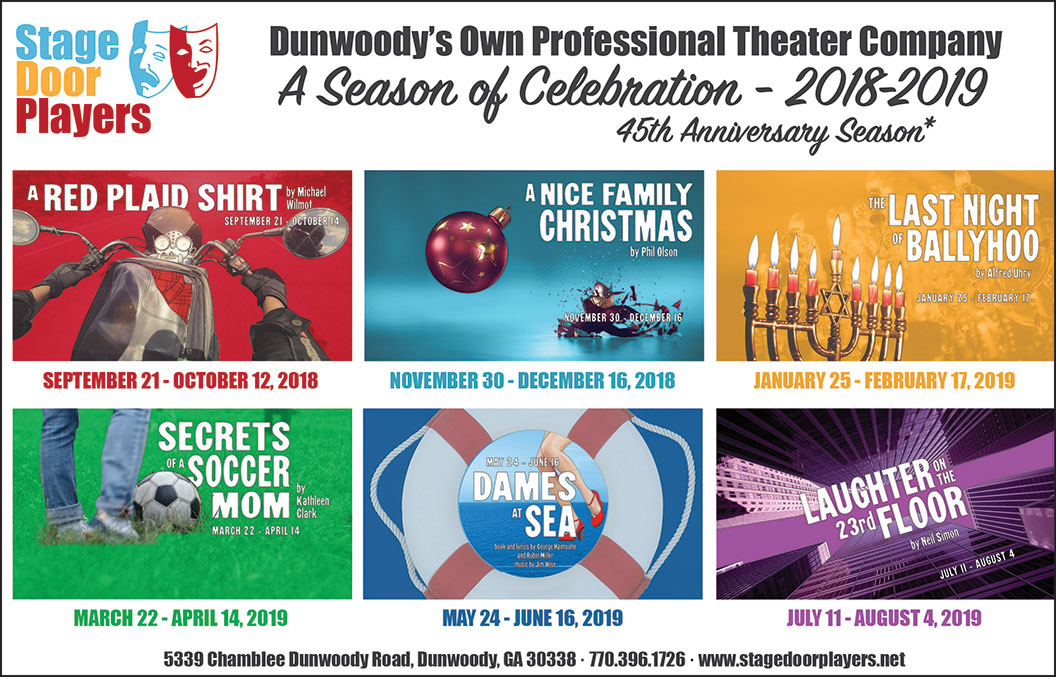
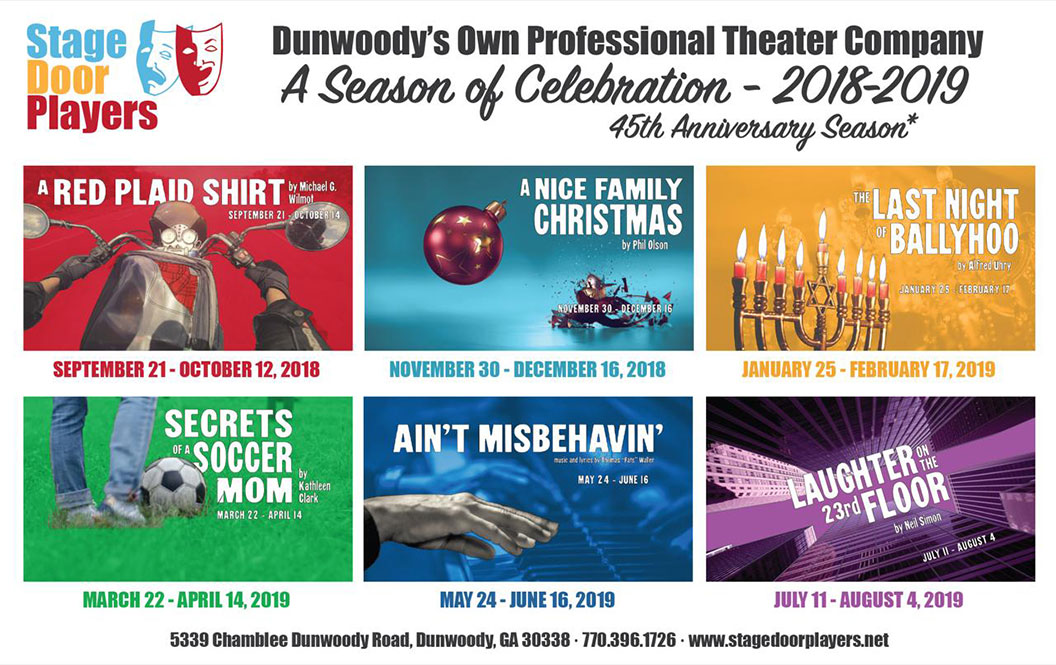
changed show per client

diff --git a/productions/show-aint-misbehavin.html b/productions/show-aint-misbehavin.html
@@ -77,21 +77,20 @@
             </div>
         </nav>
 
-        <div class="container-fluid banner dames-at-sea">
+        <div class="container-fluid banner aint-misbehavin">
 
         </div>
 
         <div class="container">
             <div class="row">
                 <div class="col-sm-4">
-                    <img src="../images/productions/squares/dames-at-sea.jpg" class="tease" title="DAMES AT SEA" alt="DAMES AT SEA" />
+                    <img src="../images/productions/squares/show-aint-misbehavin.jpg" class="tease" title="AIN'T MISBEHAVIN'" alt="AIN'T MISBEHAVIN'" />
                 </div>
                 <div class="col-sm-8">
-                    <h3>DAMES AT SEA</h3>
-                    <p>A long-running hit Off Broadway that brought stardom to Bernadette Peters, this campy show is based on the nostalgia of Hollywood musicals of the '30s. It's big-time New York, into which sweet little Ruby from faraway Hometown, U.S.A. has come to make it big on Broadway. Who should she chance to meet but another boy from Hometown, U.S.A.: Dick, a sailor, who also has ambitions as a songwriter. Ruby begins in the chorus, and by the end of the day, in true Hollywood fashion, Ruby becomes a star!</p>
+                    <h3>AIN'T MISBEHAVIN'</h3>
+                    <p>The inimitable Thomas "Fats" Waller rose to international fame during the Golden Age of the Cotton Club and that jumpin' new beat, swing music. With familiar songs like Honeysuckle Rose, This Joint is Jumpin’, I Can’t Give You Anything But Love, and the title tune, Ain't Misbehavin' evokes the delightful humor and infectious energy of this American original as a versatile cast struts, strums and sings the songs that he made famous in a career that ranged from uptown clubs to downtown Tin Pan Alley to Hollywood and concert stages in the U.S., Canada and Europe.</p>
                     <h5>May 24 through June 16, 2019</h5>
-                    <h6>Book and lyrics by George Haimsohn and Robin Miller</h6>
-                    <h6>Music by Jim Wise.</h6>
+                    <h6>Music and Lyrics by Thomas "Fats" Waller</h6>
                 </div>
                 
                 <!-- <div class="col-sm-8">

diff --git a/productions/show-a-red-plaid-shirt.html b/productions/show-a-red-plaid-shirt.html
@@ -91,7 +91,7 @@
                     <p>(Regional Premiere Comedy)</p>
                     <p>Two old friends fill the void left by retirement in different ways; Marty decides he wants to explore the open road on a Harley while Fred decides to pay more attention to his health, inventing many new ailments along the way. With a little "subtle redirection" from their wives and a creative solution to a very unusual problem they find the right track... eventually.</p>
                     <h5>September 21 through October 14, 2018</h5>
-                    <h6>By Michael Wilmot</h6>
+                    <h6>By Michael G. Wilmot</h6>
                 </div>
                 
                 <!-- <div class="col-sm-8">

diff --git a/productions/index.html b/productions/index.html
@@ -178,8 +178,8 @@
                     </a>
                 </div>
                 <div class="col-xs-6 col-sm-4">
-                    <a href="show-dames-at-sea.html">
-                        <img src="../images/productions/squares/dames-at-sea.jpg" class="tease" title="DAMES AT SEA" alt="DAMES AT SEA" />
+                    <a href="show-aint-misbehavin.html">
+                        <img src="../images/productions/squares/show-aint-misbehavin.jpg" class="tease" title="AIN'T MISBEHAVIN'" alt="AIN'T MISBEHAVIN'" />
                     </a>
                 </div>
                 <div class="col-xs-6 col-sm-4">

diff --git a/index.html b/index.html
@@ -152,8 +152,8 @@
 					</a>
 				</div>
 				<div class="col-xs-6 col-sm-2">
-					<a href="productions/show-dames-at-sea.html">
-						<img src="images/productions/squares/dames-at-sea.jpg" class="tease" title="DAMES AT SEA" alt="DAMES AT SEA" />
+					<a href="productions/show-aint-misbehavin.html">
+						<img src="images/productions/squares/show-aint-misbehavin.jpg" class="tease" title="AIN'T MISBEHAVIN'" alt="AIN'T MISBEHAVIN'" />
 					</a>
 				</div>
 				<div class="col-xs-6 col-sm-2">

diff --git a/css/new.css b/css/new.css
@@ -197,8 +197,8 @@ h4 {
 	background-image: url("../images/banner/secrets-of-a-soccer-mom.jpg");
 }
 
-.banner.dames-at-sea {
-	background-image: url("../images/banner/dames-at-sea.jpg");
+.banner.aint-misbehavin {
+	background-image: url("../images/banner/aint-misbehavin.jpg");
 }
 
 .banner.laughter-on-the-23rd-floor {
@@ -209,9 +209,6 @@ h4 {
 	height: 670px;
 	background-image: url("../images/banner/season18-19.jpg");
 }
-
-
-
 
 @media (max-width: 480px) {
 	.banner {
